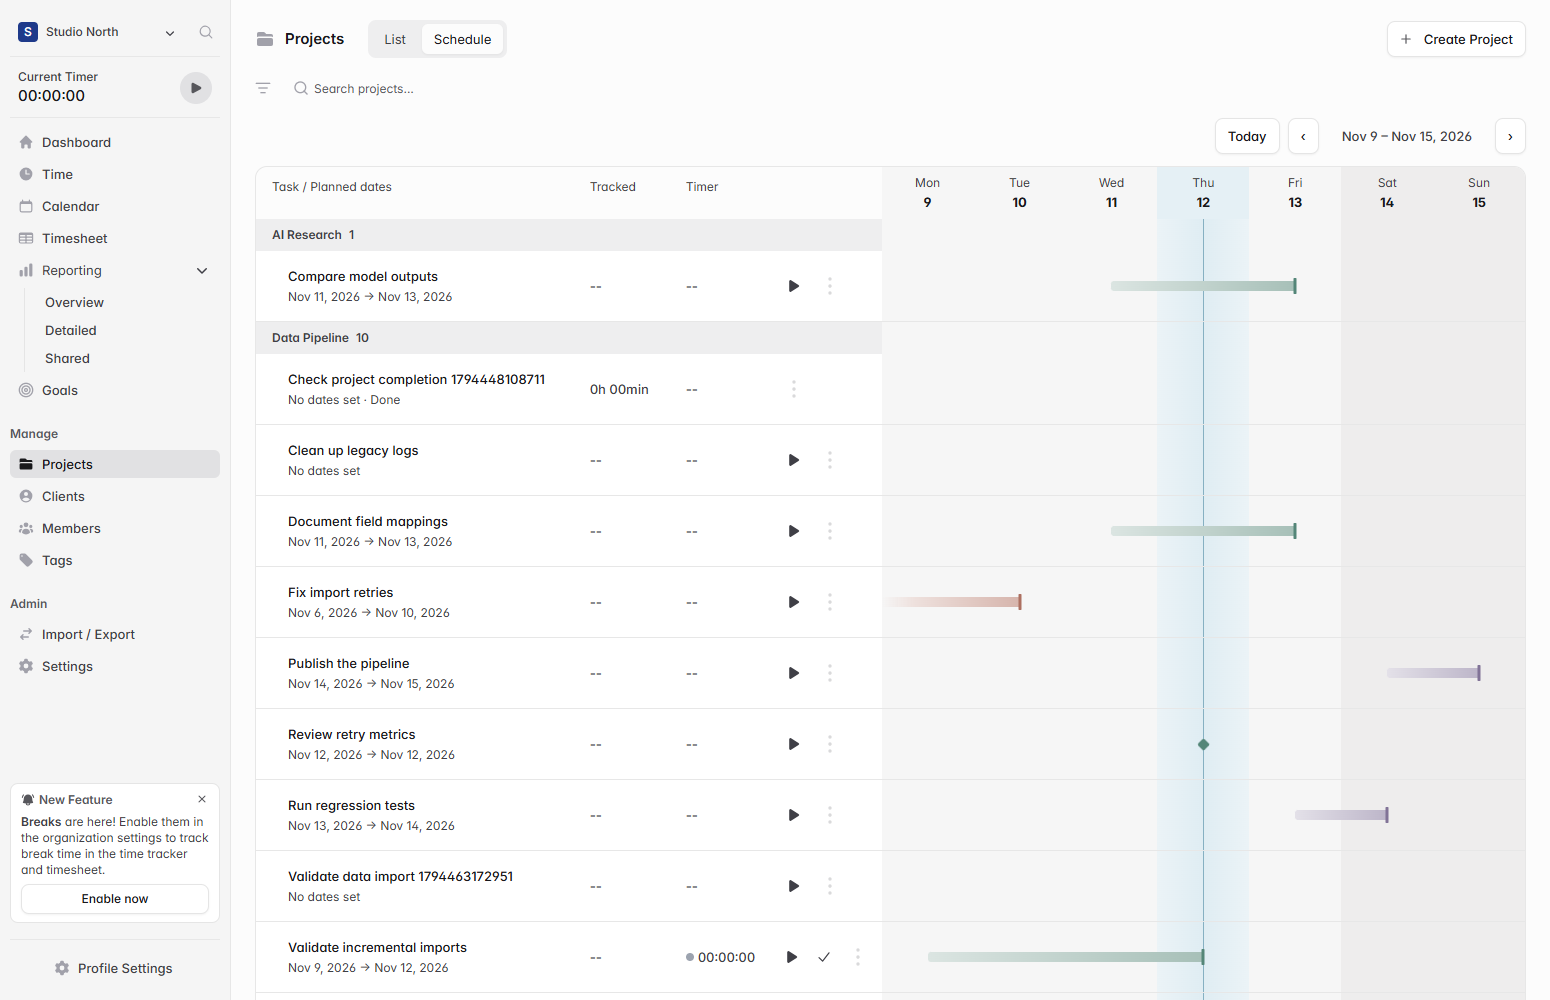
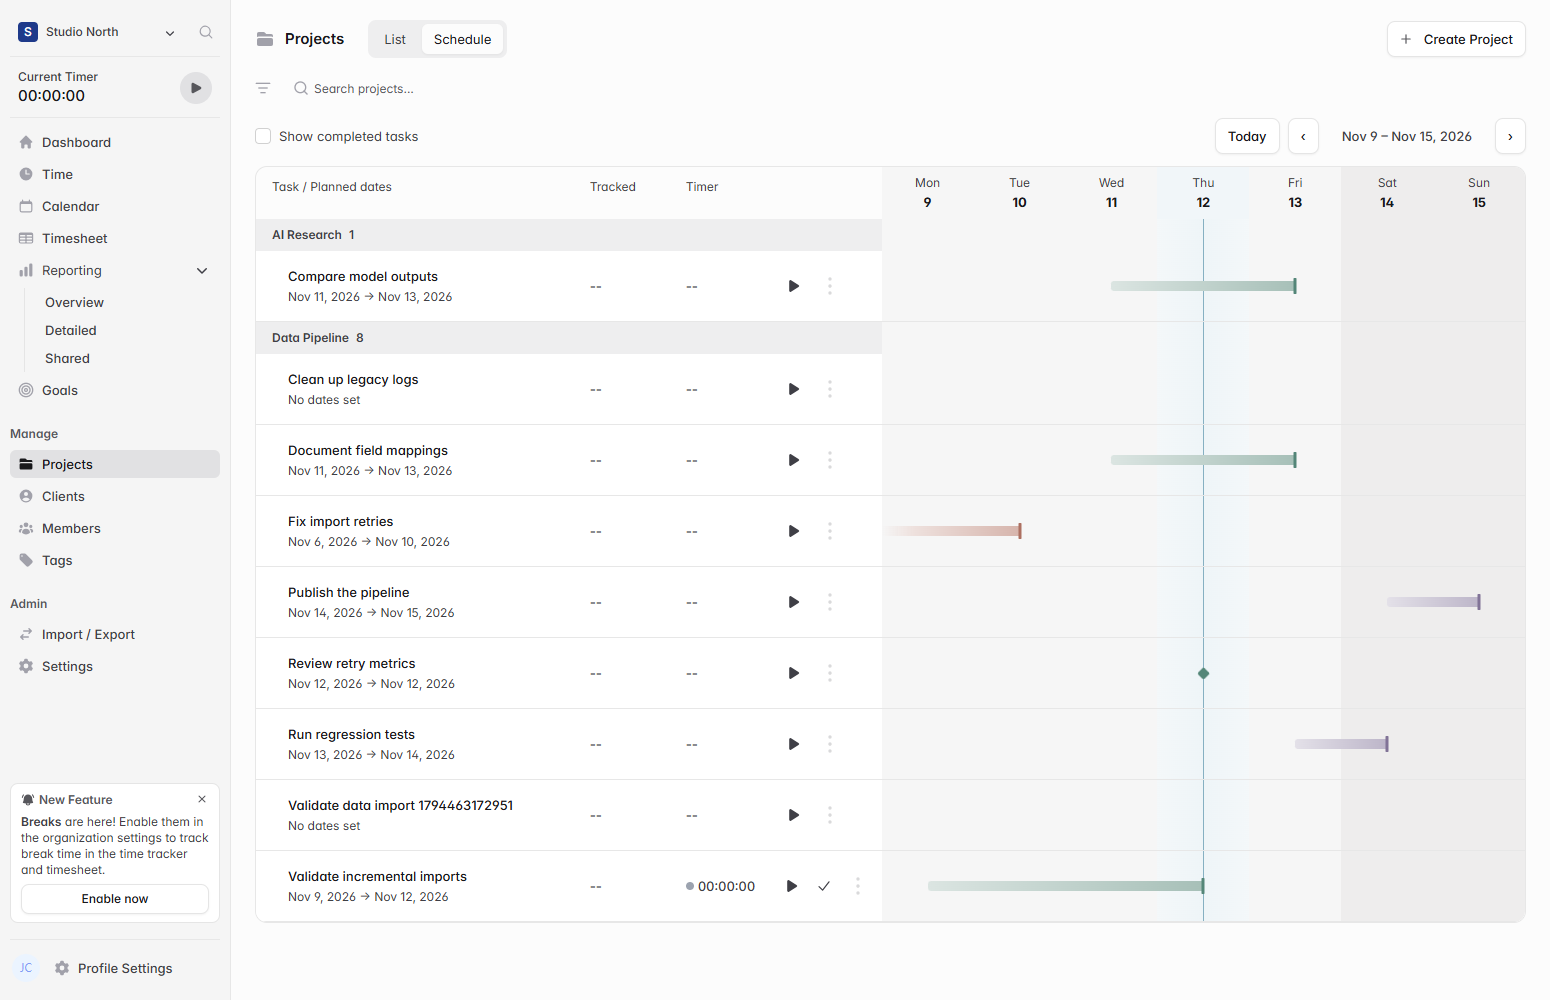
docs: update project schedule filters and screenshot

diff --git a/README.md b/README.md
@@ -15,10 +15,10 @@ Built the frontend and ran type checking and lint. Used Edge with the built asse
 
 ## Schedule across projects
 
-Open **Projects → Schedule** to see tasks grouped by project on one weekly timeline. Project search and filters also apply in this view. Completed tasks are labeled **Done**, and tasks without dates remain listed under their project. The current day is highlighted in the date header. To open a single project directly in Schedule, use **Open Schedule** in its actions menu.
+Open **Projects → Schedule** to see tasks grouped by project on one weekly timeline. Project search and filters also apply in this view. Completed tasks are hidden by default. Select **Show completed tasks** to display them with a **Done** label. Tasks without dates remain listed under their project. A subtle tint highlights the current day. To open a single project directly in Schedule, use **Open Schedule** in its actions menu.
 
 ![Projects overview showing multiple projects on the same weekly schedule](.github/feature-images/projects-overview-schedule.png)
 
-Edge verification with the local API covered two projects on the same timeline, completed tasks, search filtering, the highlighted date, and switching between the overview, individual schedule, and List views.
+Edge verification with the local API covered two projects on the same timeline, the default and toggled completed-task filter, search filtering, the highlighted date, and switching between the overview, individual schedule, and List views.
 
 [Upstream Solidtime README](https://github.com/solidtime-io/solidtime#readme)
